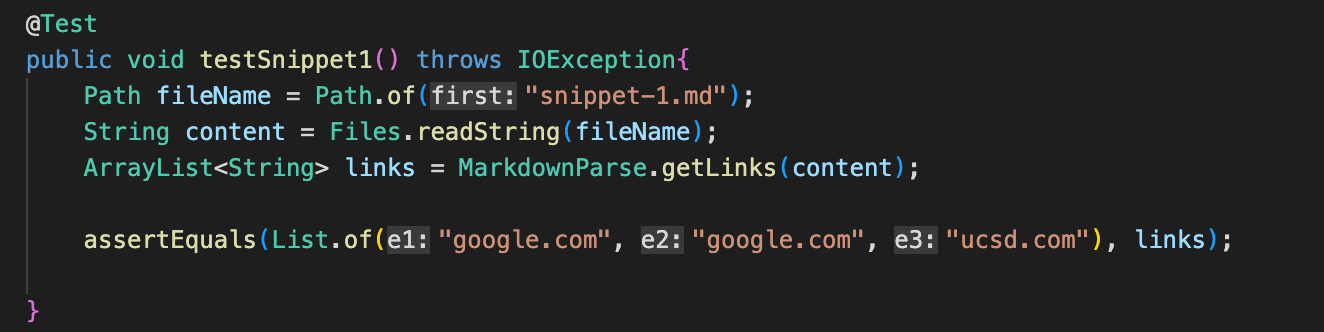
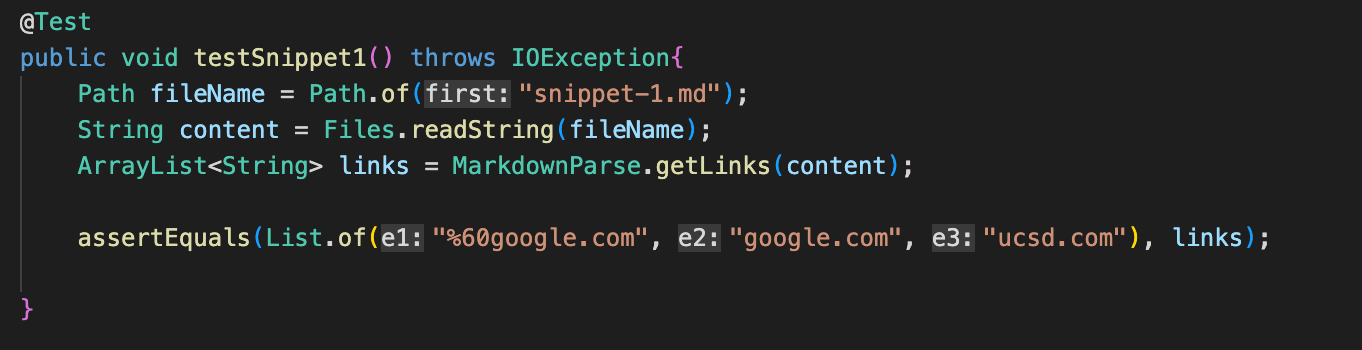
updated expected output

Changed region(s): [[0.0, 0.0301, 0.6813, 0.5422], [0.0619, 0.6325, 0.929, 0.7831], [0.0, 0.8735, 0.031, 0.9639]]

diff --git a/lab-report-4-week-8.md b/lab-report-4-week-8.md
@@ -9,7 +9,7 @@ Link to markdown-parse repository reviewed in week 7: [Link](https://github.com/
 
 ## Snippet 1
 
-Expected output: `["google.com", "google.com", "ucsd.com"]`
+Expected output: `["%60google.com", "google.com", "ucsd.com"]`
 
 Code in MarkdownParseTest.java: 
 
